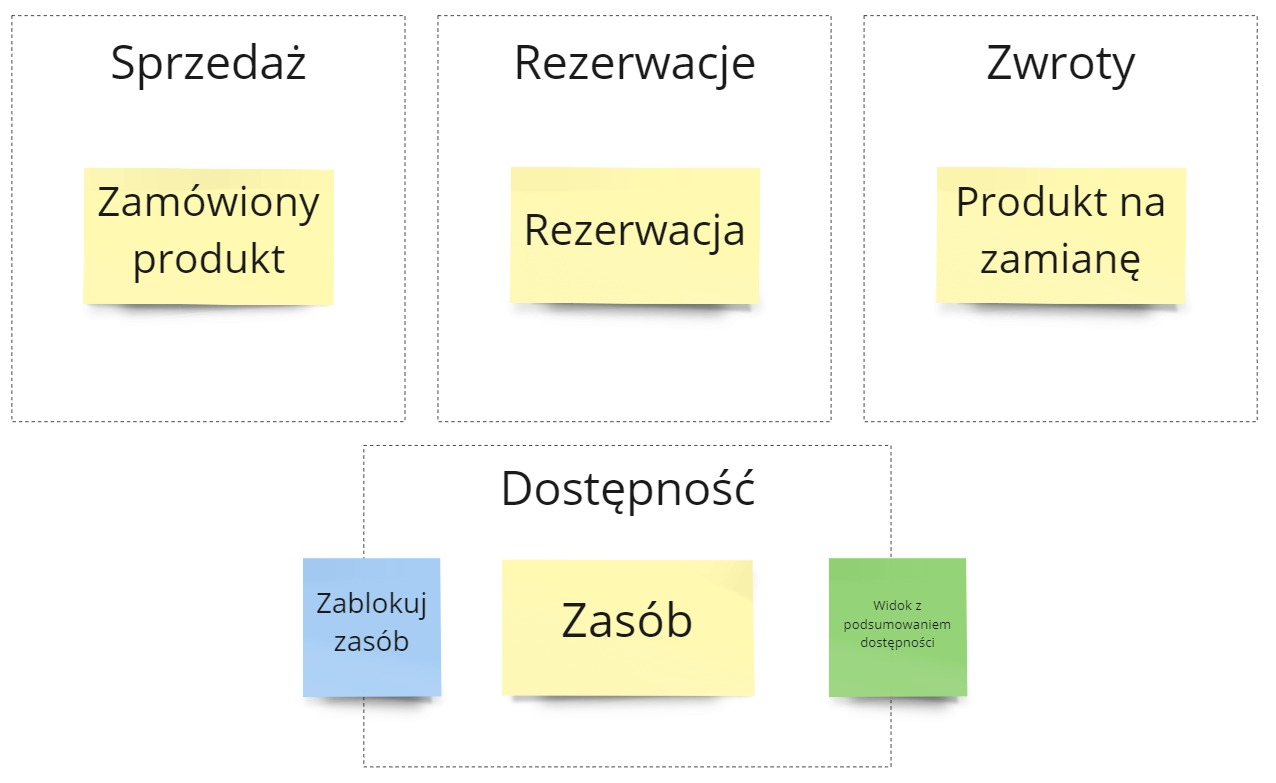
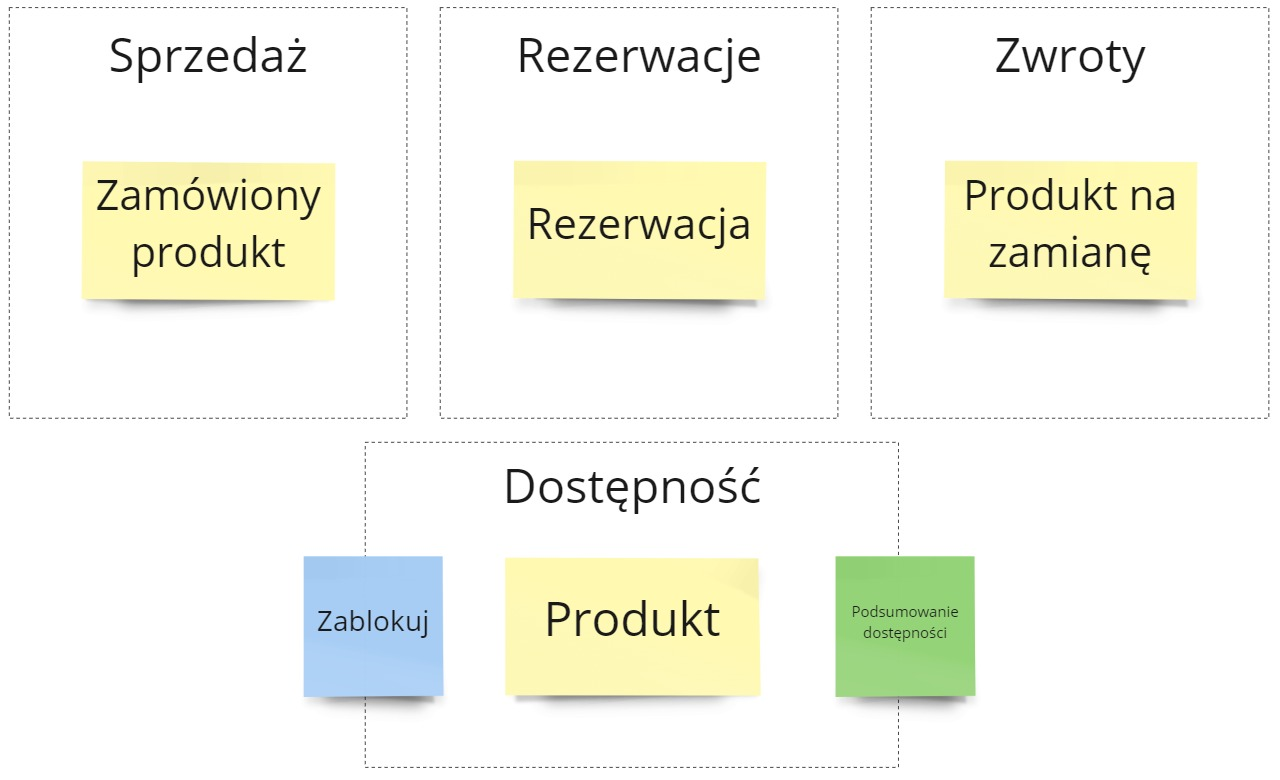
Add final changes to the article about bc

diff --git a/page/content/pl/posts/2022/2022-01/dlaczego-bounded-contexty-sa-wazne-jak-wyznaczac-konteksty/index.md b/page/content/pl/posts/2022/2022-01/dlaczego-bounded-contexty-sa-wazne-jak-wyznaczac-konteksty/index.md
@@ -9,18 +9,20 @@ category: 'Wzorce projektowe'
 
 // wszystkie materiały zostały zebrane w [podsumowaniu cyklu](/2018/07/16/dlaczego-bounded-contexty-sa-wazne-podsumowanie/). 
 
-Podział naszego rozwiązania technicznego na mniejsze konteksty to temat, który zawsze pojawia się podczas tworzenia bardziej rozbudowanego rozwiązania. Szczególnie jeśli mówimy o [mikroserwisach](https://blog.avanscoperta.it/2020/06/11/about-bounded-contexts-and-microservices/). Dlaczego tak jest? 
+Podział naszego rozwiązania na mniejsze konteksty to temat, który zwykle pojawia się podczas tworzenia bardziej rozbudowanego systemu. Szczególnie jeśli mówimy o [mikroserwisach](https://blog.avanscoperta.it/2020/06/11/about-bounded-contexts-and-microservices/). Dlaczego tak jest? 
 
-Nieprawidłowy podział kontekstów ma duże wady:
+Nieprawidłowy podział systemu niesie ze sobą szczególne wady:
 - praca będzie przechodziła przez wiele obszarów technicznych
 - rozwój funkcji biznesowy wymagać będzie koordynacji  pracy kilku zespołów
 - wiedza o statusie procesu będzie podzielona na kilka miejsc - brak będzie jednego źródła prawdy 
 - rozwój jednej funkcji biznesowej będzie burzyć działanie funkcji pobocznych
 
-Na potrzeby tego artykułu wyszczególniłem takie 5 podejść do dzielenia systemu na konteksty:
-- Proces i jego podział
-- Możliwości zmiany
-- Źródło wiedzy
+Na potrzeby tego artykułu wyszczególniłem 5 metod dzielenia systemu na konteksty:
+- [Proces i jego podział](#proces-i-jego-podział)
+- [Możliwości zmiany i autonomia](#możliwość-zmiany-i-autonomia)
+- [Źródło wiedzy](#źródło-wiedzy)
+- [Różnice językowe](#różnice-językowe)
+- [Reużywalność](#reużywalność)
 
 ## Metody podziału na konteksty
 
@@ -29,11 +31,11 @@ Ta metoda podziału jest najbardziej popularna (co też oznacza, że nie zawsze 
 
 [![](bc-1-1.jpg)](bc-1-1.jpg)
 
-Rozpoczynamy od przeglądu naszego procesu, który chcemy informatyzować. Zbieramy informacje w jaki sposób przebiegają kolejne kroki. Wyszczególniamy kto się z kim komunikuje oraz jakie informacje podaje dalej.  A przede wszystkim jakie cele chcemy spełniać na poszczególnych etapach procesu.
+Rozpoczynamy od przeglądu naszego procesu, który chcemy informatyzować (u mnie oczywiście za pomocą Event Stormingu 😉). Zbieramy informacje w jaki sposób przebiegają kolejne kroki. Wyszczególniamy kto się z kim komunikuje, oraz jakie informacje podaje dalej.  A przede wszystkim, jakie cele chcemy spełniać na poszczególnych etapach procesu.
 
 [![](bc-1-2.jpg)](bc-1-2.jpg)
 
-Następnie szukamy zdarzeń granicznych ([pivotal events](https://www.dddheuristics.com/guiding-heuristics/eventstorming-emerging-pivotal-events-for-a-big-picture/)). To pozwoli nam określić w których miejscach proces zauważalnie zmienia swoją strukturę - pracują w nim inne osoby, lub proces spełnia inne cele. W systemie e-commerce takimi zdarzeniami mogą być:
+Następnie szukamy zdarzeń granicznych ([pivotal events](https://www.dddheuristics.com/guiding-heuristics/eventstorming-emerging-pivotal-events-for-a-big-picture/)). To pozwoli nam określić w których miejscach proces zauważalnie zmienia swoją strukturę - pracują w nim inne osoby lub proces spełnia inne cele. W systemie e-commerce takimi zdarzeniami mogą być:
 
 - Zlecono wysyłkę - dział Zamówień oddał pracę dalej do działu Dostaw
 - Uruchomiono kampanię marketingową - teraz dział Marketingu skupi się na zbieraniu leadów
@@ -44,17 +46,15 @@ Bardzo często miejsce podziału procesu będzie pokrywało się z obecną struk
 
 [![](bc-1-3.jpg)](bc-1-3.jpg)
 
-Na tej podstawie możemy utworzyć nasze konteksty. Aktywności biznesowe danej grupy docelowej oraz przetwarzane informacje będą zawierać się w danym kontekście. Zamykamy część procesu biznesowego tworząc dla niego osobny obszar techniczny.
+Na tej podstawie możemy utworzyć nasze konteksty. Aktywności biznesowe danej grupy docelowej oraz przetwarzane informacje będą zawierać się w danym obszarze biznesowym. Zamykamy część procesu biznesowego tworząc dla niego osobny kontekst.
 
 **Zadaj sobie pytanie:**
 - W którym miejscu mój proces się dzieli?
-- Gdzie oddaję pracę innej osobie / innemu działowi?
+- Gdzie oddajemy pracę innej osobie / innemu działowi?
 - Jakie informacje są wymagane od działu w którym współpracuję?
 
-https://www.dddheuristics.com/assets/images/value-stream-contexts.png
-
 ### Możliwości zmiany i autonomia
-Jeśli widzimy, że pewne funkcje i cele biznesowe są często zmieniane, to bardzo możliwe, że warto dla nich wydzielić osobny kontekst. Nawiązuje to do słynnej pracy D.L. Parnasa [On the Criteria To Be Used in Decomposing Systems into Modules](https://www.win.tue.nl/~wstomv/edu/2ip30/references/criteria_for_modularization.pdf)
+Jeśli widzimy, że pewne funkcje i cele biznesowe są często zmieniane, jest to dla nas sugestia, że warto dla nich wydzielić osobny kontekst. Nawiązuje to do słynnej pracy D.L. Parnasa [On the Criteria To Be Used in Decomposing Systems into Modules](https://www.win.tue.nl/~wstomv/edu/2ip30/references/criteria_for_modularization.pdf)
 
 > We propose instead that one begins with a list of difficult design decisions or design decisions which are likely to change. Each module is then designed to hide such a decision from the others.
 
@@ -62,9 +62,15 @@ Załóżmy, że nasz dział marketingu wykorzystuje promocje w systemie e-commer
 
 [![](bc-2-1.jpg)](bc-2-1.jpg)
 
-Dlatego też wartościowe będzie odseparowanie od siebie tych odpowiedzialności. Liczenie cen przeniesiemy do kontekstu _Cennik_, który będzie odpowiedzialny za bazowe ceny produktów oraz promocje. Tutaj będzie wyliczana ostateczna cena produktów. Na tej podstawie zasilony zostanie kontekst _Sklep_, który dostanie gotowe informacje do działania. **_Cennik_ może dowolnie kształtować promocje o ile dalej będzie zapełniać _Sklep_ danymi.**
+Dlatego też wartościowe będzie odseparowanie od siebie tych odpowiedzialności. Liczenie cen przeniesiemy do kontekstu _Cennik_, który będzie odpowiedzialny za bazowe ceny produktów oraz promocje. Tutaj będzie wyliczana ostateczna cena produktów. Na tej podstawie zasilony zostanie kontekst _Sklep_, który dostanie gotowe informacje do działania. **_Cennik_ może dowolnie kształtować i zmieniać promocje, o ile dalej będzie zapełniać _Sklep_ danymi.**
 
 Przydatną techniką tutaj jest [Mapa Wardley'a](https://learnwardleymapping.com/). Pozwala ona, po podziale na obszary, zastanowić się na ile są one dojrzałe i stabilne. Na tej podstawie możemy podjąć powyższe decyzje.
+
+**Zadaj sobie pytanie:**
+
+- Jakie potrzeby biznesowe się częściej zmieniają?
+- Co jest na tyle stałe, że nie zmienialiśmy tego od miesięcy?
+- Gdzie najczęściej wpadają zmiany na już, ASAP as ASAP?
 
 ### Źródło wiedzy
 
@@ -74,44 +80,46 @@ Załóżmy, że tworzymy rozbudowany system e-commerce. Możemy sprzedawać / re
 
 [![](bc-3-1.jpg)](bc-3-1.jpg)
 
-To jest sugestia, że brakuje nam dodatkowego obszaru, który będzie się zajmować obsługą dostępności produktów. Taki kontekst będzie przyjmował żądania blokowania produktu i zwracał podsumowanie dostępności. Kontekst _Dostępność_ będzie tutaj **źródłem wiedzy**. To do niego pozostałe konteksty będą uderzać aby pytać o dostępność produktów i blokować poszczególne towary.
+To jest sugestia, że brakuje nam dodatkowego obszaru, który będzie się zajmować obsługą dostępności produktów. Taki kontekst będzie przyjmował żądania blokowania produktu i zwracał podsumowanie dostępności. Kontekst _Dostępność_ **będzie tutaj źródłem wiedzy**. To do niego pozostałe konteksty będą uderzać aby pytać o dostępność produktów i blokować poszczególne towary.
 
-**Pytania pomocniczne:**
+Często różne grupy mówią o tej samej funkcji z różnej perpektywy. Źródło wiedzy jest sposobem by zebrać te potrzeby w jednym miejscu i nadać im techniczny kształt.
+
+**Zadaj sobie pytanie:**
 - Na jakie główne pytania powiniśmy odpowiedzieć w naszym systemie?
 - Co jest dla nas najbardziej istotną informacją w systemie?
 - Jaka odpowiedź powinna być dla nas znana bez zapytań do innych kontekstów?
 
-### Językowe różnice
+### Różnice językowe
 
-Kontekst w ujęciu DDD dzieli rozwiązanie techniczne na mniejsze obszary, gdzie wybrane pojęcia mają jedno dokładne znaczenie. To nam pozwala dostrzec, w których miejscach nasze rozwiązanie powinno się dzielić na mniejsze konteksty. 
+Słowa mają różne znaczenia, w zależności od obszaru biznesowego. Kontekst (w ujęciu DDD) dzieli rozwiązanie techniczne na mniejsze obszary, gdzie wybrane pojęcie ma dokładnie jedno znaczenie.  
 
 [![](bc-4-1.jpg)](bc-2-1.jpg)
 
-**Weźmy na tapet słowo Lead**. W zalezności czy mówimy o zespole Marketingu czy Sprzedaży to te [2 określenia będą znaczyły coś zdecydowanie innego](https://www.linkedin.com/feed/update/urn:li:activity:6545309519982014464/).
+Weźmy na tapet słowo Lead. W zalezności czy mówimy o zespole Marketingu czy Sprzedaży to **słowo Lead będzie znaczyło coś zdecydowanie innego** ([przykład dyskusji z LinkedIn](https://www.linkedin.com/feed/update/urn:li:activity:6545309519982014464/)).
 Taką istotną różnicę warto odseparować od siebie - inaczej skończymy z olbrzymim modelem mającym bardzo dużą odpowiedzialność.
 
-Analogicznie może być w przypadku słowa Pracownik w systemie HRowym. W zależności od kontekstu, te słowa mogą znaczyć:
+Analogicznie może być w przypadku słowa Pracownik w systemie HRowym. W zależności od kontekstu te słowa mogą znaczyć:
 - Szansa na zatrudnienie - dla kontekstu _Poszukiwanie kandydatów_
 - Potencjalne miejsce angażu - dla kontekstu _Projekty_
 - Miejce w drabince organizacyjnej - dla kontekstu _Struktura organizacyjna_
 - Stawka godzinowa oraz dni urlopowe - dla konktestu _Koszty_
 
-**Pytania pomocnicze:**
-- Jakie zwroty są różnie rozumiane w moim biznesie?
-- O jakie odpowiedzialności / cechy kłócą się współpracownicy?
+**Zadaj sobie pytanie:**
+- Jakie zwroty są różnie rozumiane w mojej organizacji?
+- O jakie odpowiedzialności / cechy / zachowania kłócą się współpracownicy?
 - Jakie pojęcia są strasznie niejasne (a więc ich klasy / obiekty w kodzie olbrzymie)? 
 
 ### Reużywalność
 
-Jednym ze sposobóe na wydzielenie kontekstów jest myślenie w kryteriach reużywalności.
+Jednym ze sposobów na wydzielenie kontekstów jest myślenie w kryteriach reużywalności.
 
-_Płatności_ są tego dobrym przykładem. Na początku chcielibyśmy aby klienci mogli nam płacić za towary. Połączenie odpowiedzialności płatności z zamówieniem wydają się dobrą początkową decyzją. Później jednak możemy chcieć aby klient mógł zapłacić dodatkową kwotę za rzeczy niezwiązane z zamówieniem - dodatkową wysyłkę, wymianę. **Dodanie nowych funkcji do już istniejących płatności w zamówieniach może przyprawić o siwe włosy.**
+_Płatności_ są tego dobrym przykładem. Na początku chcielibyśmy aby klienci mogli nam płacić za towary. Połączenie odpowiedzialności płatności z zamówieniem wydają się dobrą decyzją na start. Później jednak możemy chcieć aby klient mógł zapłacić dodatkową kwotę za rzeczy niezwiązane z zamówieniem - dodatkową wysyłkę, wymianę. **Dodanie nowych funkcji do już istniejących płatności w zamówieniach może przyprawić o siwe włosy.**
 
 [![](bc-5-1.jpg)](bc-5-1.jpg)
 
-Wydzielenie reużywalnego kontekstu _Płatności_ daje nam duże zyski w tworzeniu bardziej modularnego systemu. Wtedy konteksty wyższego rzędu mogą prosić _Płatności_ o realizację płatności, bez informowania kontekstu po co się to dzieje. **Możemy łączyć ze sobą konteksty na zasadzie klocków,** tworząc nowe procesy.
+Wydzielenie reużywalnego kontekstu _Płatności_ daje nam duże zyski w tworzeniu bardziej modularnego systemu. Pozostałe konteksty mogą prosić _Płatności_ o realizację płatności, bez informowania kontekstu dlaczego się to dzieje. **Możemy łączyć ze sobą konteksty na zasadzie klocków,** tworząc nowe procesy.
 
-Pytania pomocnicze:
+**Zadaj sobie pytanie:**
 - Jakie funkcje mogą być wykorzystywane przez różne części biznesu?
 - Jaka odpowiedzialność powtarza się w procesach biznesowych?
 - Co się pokrywa w dyskusjach poszczególnych grup / departamentów organizacji?
@@ -122,7 +130,7 @@ Pytania pomocnicze:
 
 > Bounded Contexts shouldn’t serve the designer’s sensibilities and need for perfection, but enable business opportunities.
 
-Wydzielanie kontekstów to zadanie, które jest zarówno techniczne, jak i biznesowe. Nie przeprowadzamy podziału by chwalić sie najlepszym technicznie podziałem. Im bardziej mamy podzielony system, tym trudniej jest nam je rozwijać. Jednak dobrze wydzielone konteksty przyśpieszają pracę i pozwalają na rozwijanie nowych możliwości biznesowych. I tego wam życzę.
+Wydzielanie kontekstów to zadanie, które jest zarówno techniczne, jak i biznesowe. Nie przeprowadzamy podziału by chwalić sie najlepszym technicznie podziałem. Jednak dobrze wydzielone konteksty przyśpieszają pracę i pozwalają na rozwijanie nowych możliwości biznesowych. I tego wam życzę.
 
 W internecie możecie poczytać więcej o metodach dzielenia na konteksty:
 
